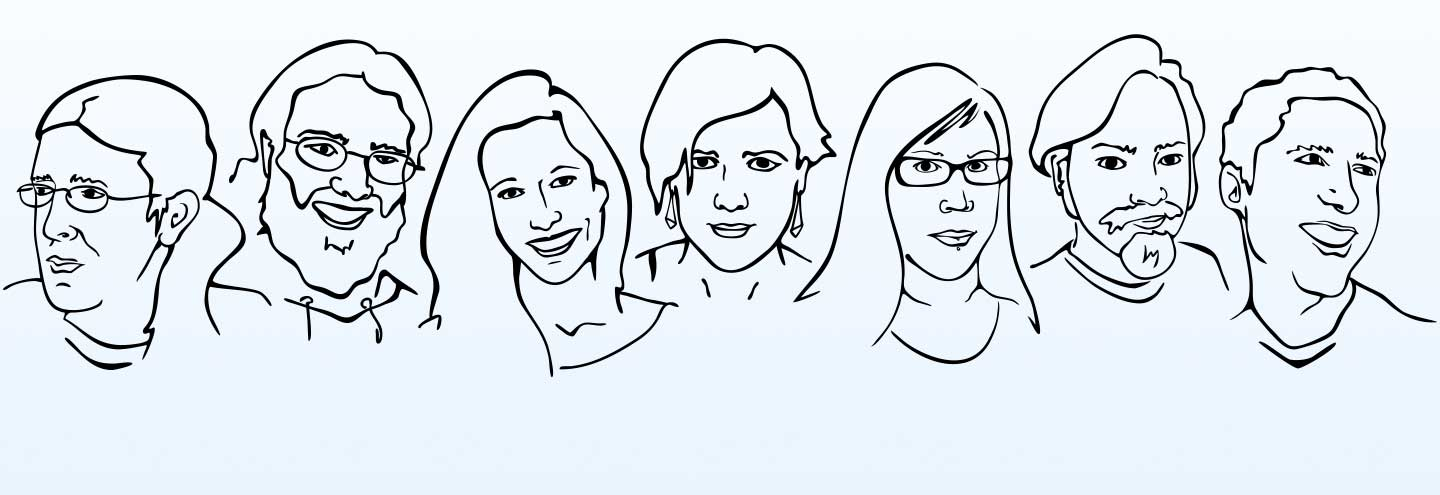
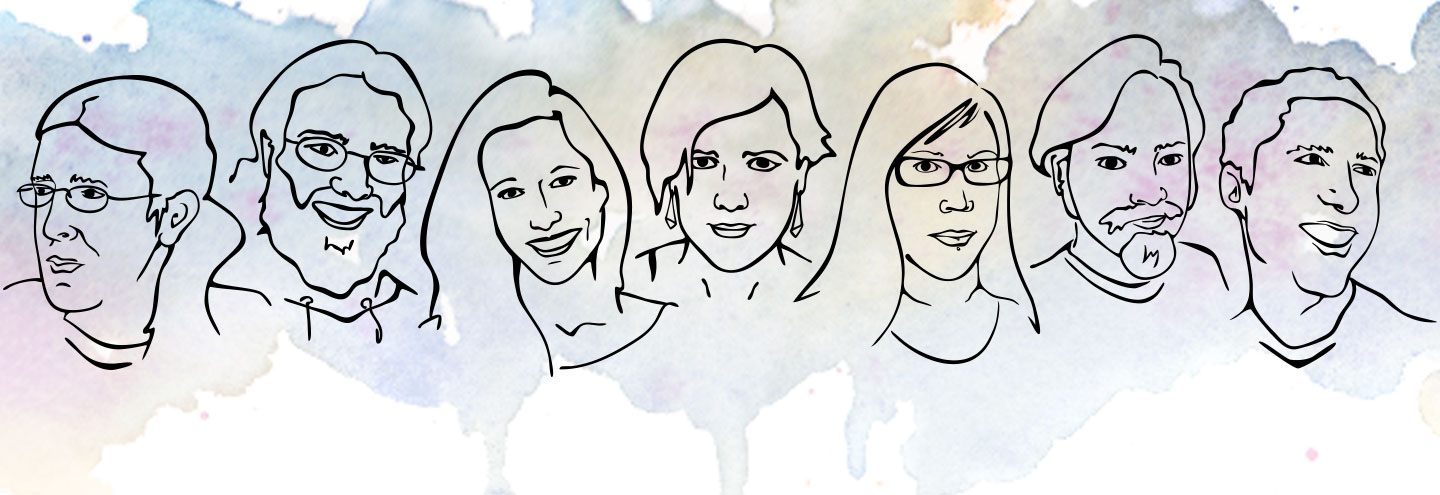
Address image/title/blog spacing concerns

diff --git a/templates/tag.html b/templates/tag.html
@@ -1,6 +1,7 @@
 {% extends "blog/archives.html" %}
 
 {% import "blog/macros.j2" as blog %}
+{% import "layout/macros.j2" as layout %}
 
 {% block title %}{{ tag.name }} | {{ super() }}{% endblock %}
 {% block og_url %}{{ get_full_canonical_url(builder, slug=['/tags', tag.name]|join('/')) }}{% endblock %}
@@ -12,7 +13,12 @@
 {% endblock feedlinks %}
 
 {% block list_intro %}
-  <h1 class="title">Posts tagged “{{ tag.name }}”</h1>
+  {% set page = all_pages|filter_pages('index', 'eq', 'blog')|get_page %}
+  {{ layout.header_image(page) }}
+  {{ layout.show_headline(
+    main=['Posts Tagged ‘', tag.name, '’']|join(''),
+    sub='More articles on the topic…',
+    type=page.config.headline.type if page.config.headline else none) }}
 {% endblock list_intro %}
 
 {% block archive %}

diff --git a/templates/blog/index.html b/templates/blog/index.html
@@ -7,10 +7,8 @@
 {% block og_url %}{{ get_full_canonical_url(builder, slug='/blog/') }}{% endblock %}
 
 {% block list_intro %}
-  {% if config.blog_title %}
-    {% set title = config.blog_title[0] %}
-    {{ layout.show_headline(title.title, title.tagline, title.type) }}
-  {% endif %}
+  {% set page = all_pages|filter_pages('index', 'eq', 'blog')|get_page %}
+  {{ layout.header(page, page) }}
 {% endblock list_intro %}
 
 {% block archive %}

diff --git a/static/sass/components/_hero.scss b/static/sass/components/_hero.scss
@@ -39,9 +39,7 @@
     margin-bottom: 0;
     margin-top: negative('double-gutter');
     max-width: none;
-    padding-bottom: size('shim');
     padding-right: calc(20% + #{size('shim')}); // 100% - 80% (angle) = 20% then add padding
-    padding-top: size('shim');
     position: relative;
     z-index: 1;
 

diff --git a/static/sass/components/_post-header.scss b/static/sass/components/_post-header.scss
@@ -7,7 +7,7 @@
   margin-bottom: size('gutter');
   margin-top: size('gutter');
   max-width: size('full-content');
-  padding: 0 size('gutter');
+  padding: size('shim') size('gutter');
 }
 
 .title-post-type {

diff --git a/static/sass/patterns/_sections.scss b/static/sass/patterns/_sections.scss
@@ -25,5 +25,5 @@
 }
 
 .preview {
-  margin-bottom: size('spacer');
+  margin: size('double-gutter') auto;
 }

diff --git a/content/speaking.rst b/content/speaking.rst
@@ -1,8 +1,9 @@
 public: yes
 location: speaking
+image:
+  - src: 'pages/speaking.jpg'
 headline:
   - tagline: 'Sharing what we’ve learned…'
-    type: 'About Us'
 after:
   - include: 'community/_events.html.j2'
     title: 'Upcoming Events'

diff --git a/content/index.rst b/content/index.rst
@@ -1,6 +1,8 @@
 public: yes
 location: home
 hide_contact: true
+image:
+  - src: 'pages/faces-hero.jpg'
 headline:
   - title: 'You have a brilliant idea.'
     tagline: 'We’ll make it fly.'

diff --git a/content/blog-index.rst b/content/blog-index.rst
@@ -1,0 +1,10 @@
+public: no
+location: blog
+index: blog
+headline:
+  - tagline: 'best-practice is an evolving conversation…'
+    type: 'Articles'
+
+
+Our Odd thoughts
+================
